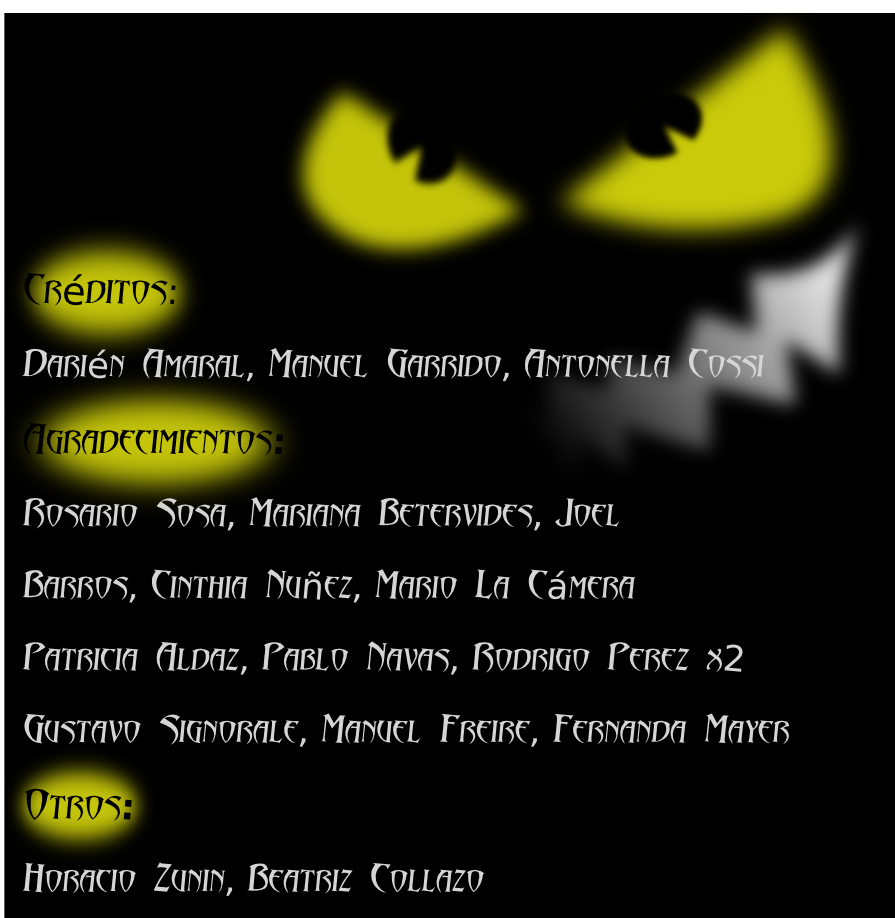
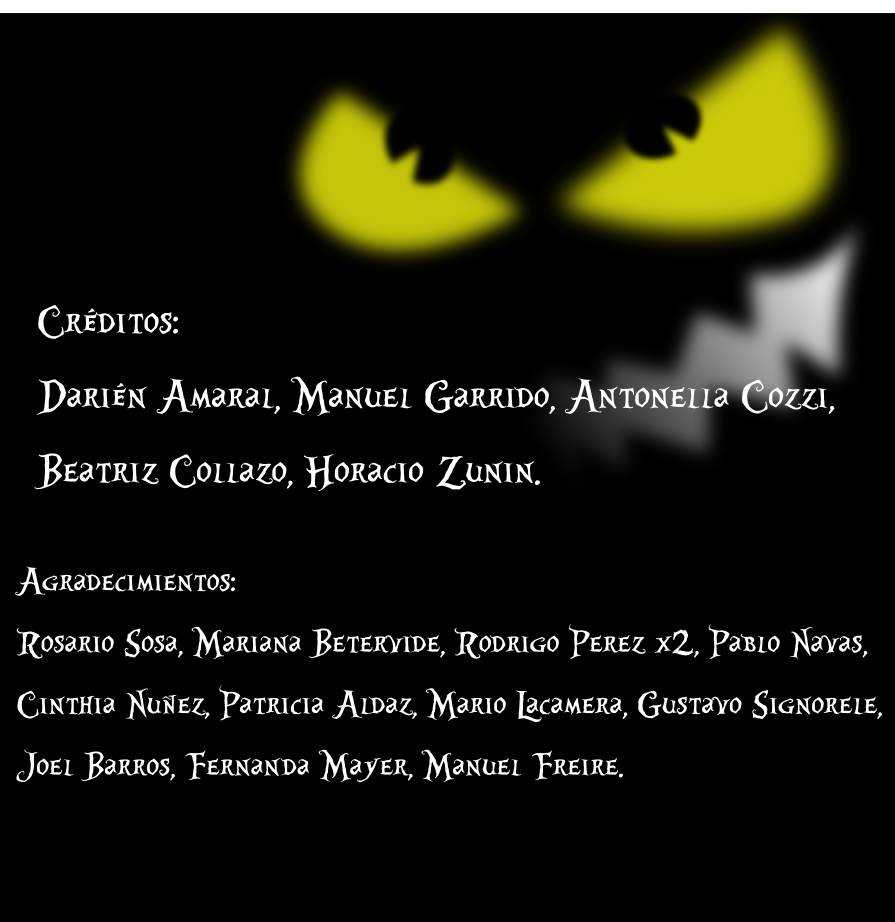
se cambiaron las imagenes de historia y creditos

diff --git a/ThroughTheDark/principal.py b/ThroughTheDark/principal.py
@@ -24,7 +24,7 @@ def jugar(pygame, constantes, pantalla,jugador):
     
     """ Clase principal en el que se debe ejecutar el juego. """
     
-    tiempo_comienzo = time() + 200
+    tiempo_comienzo = time() + 150
     
     # Creamos al jugador con la imagen p1_walk.png
     jugador_principal = Jugador(jugador)
